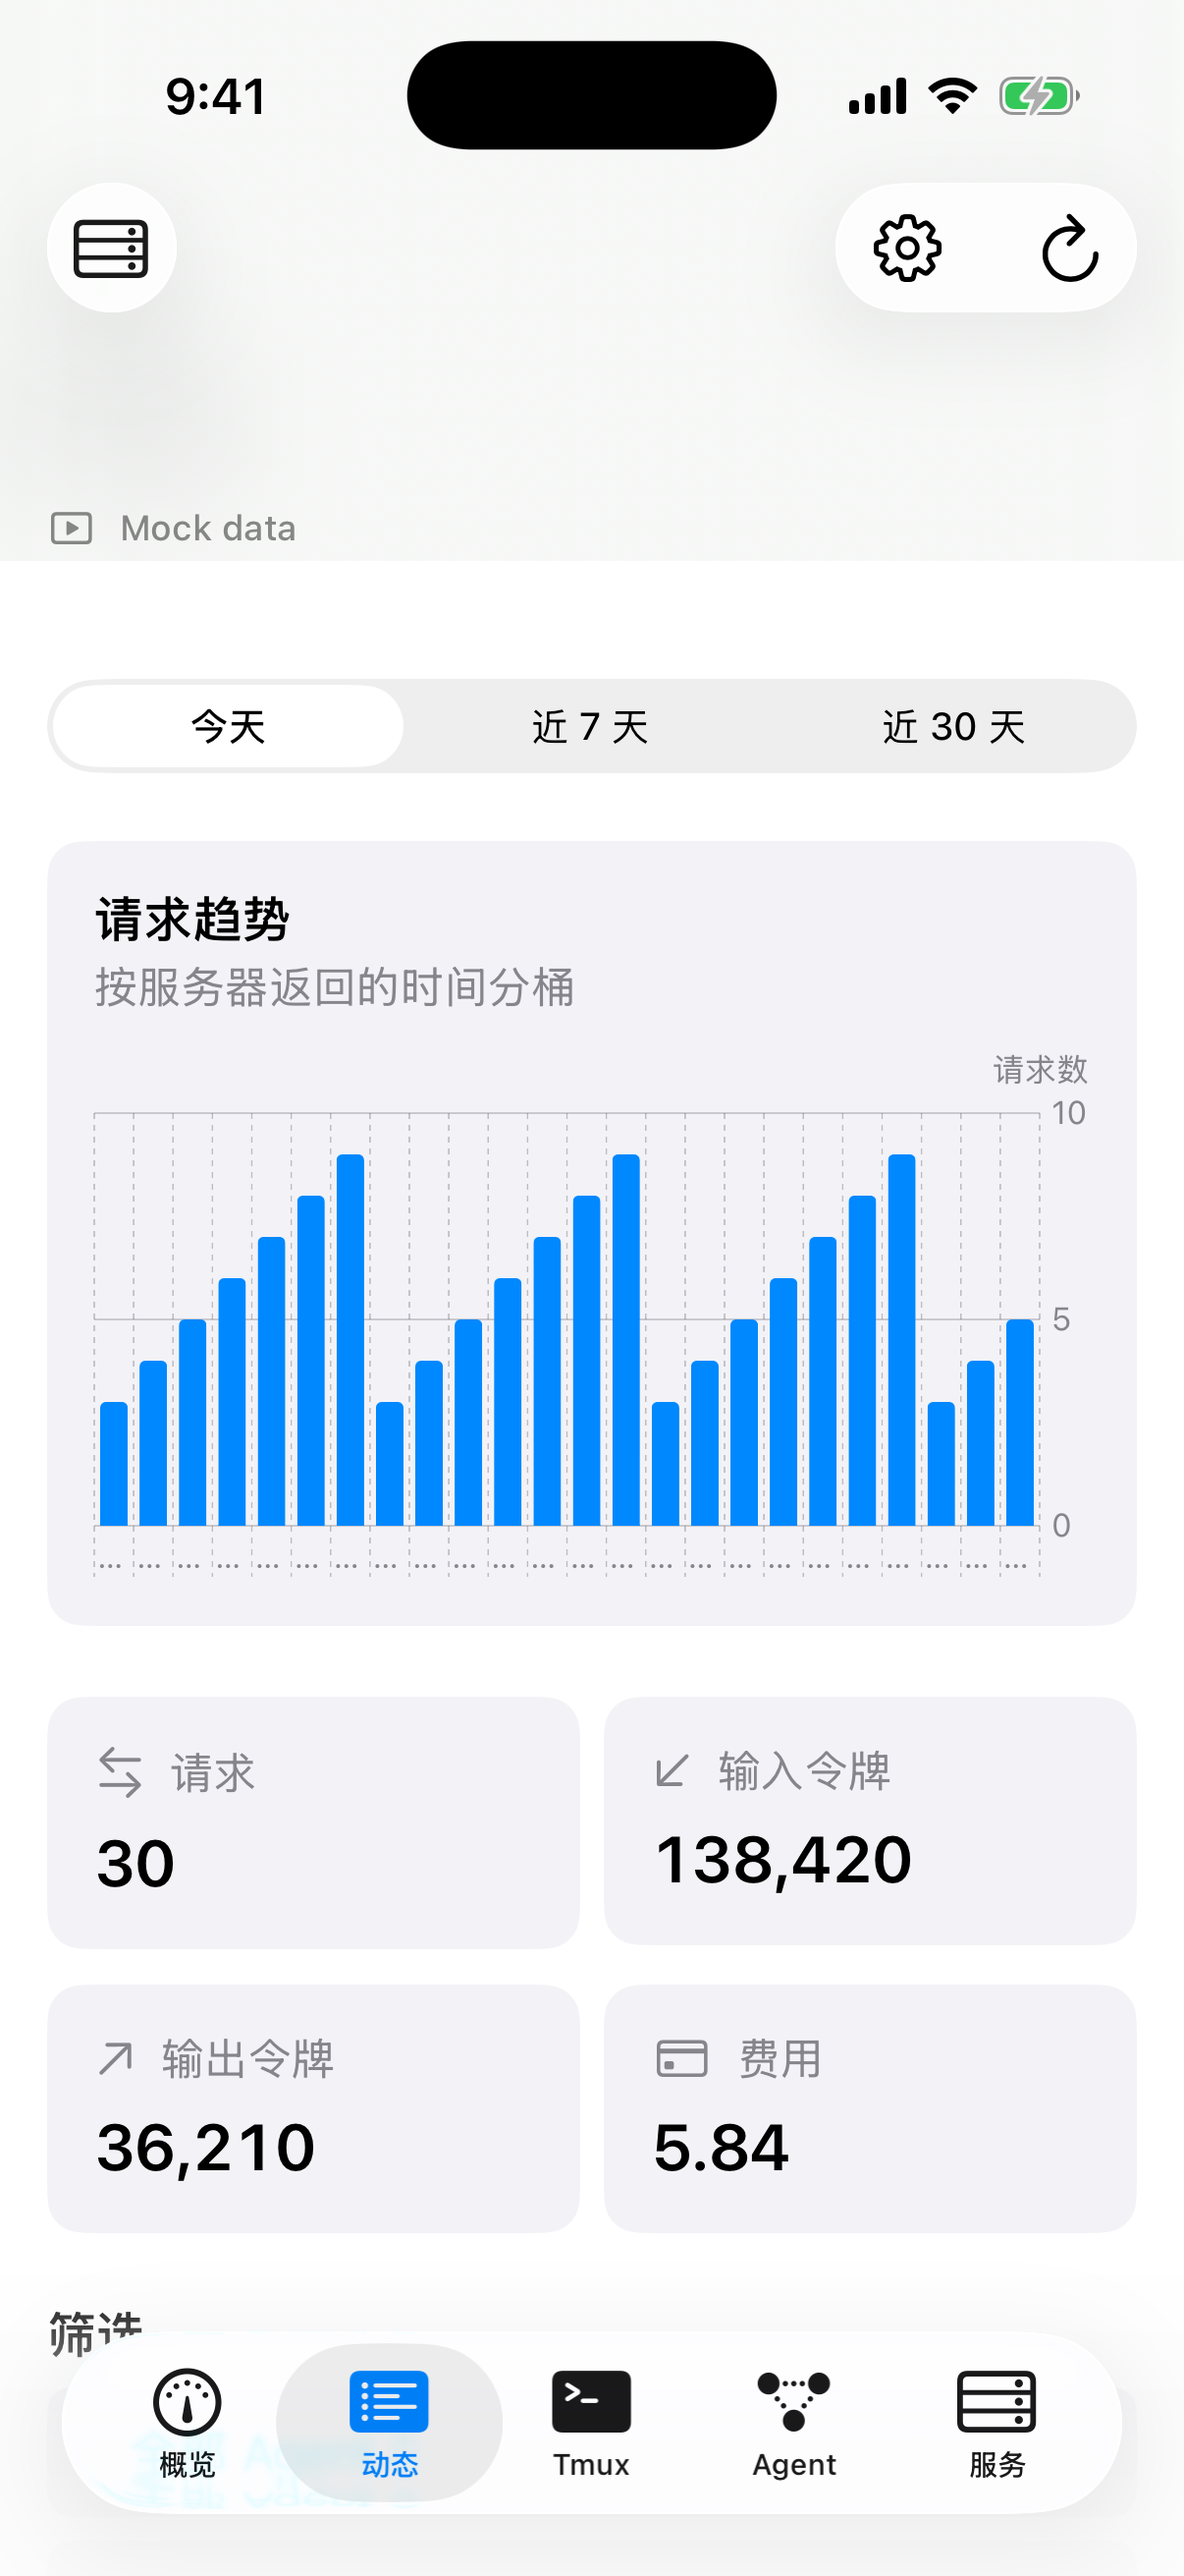
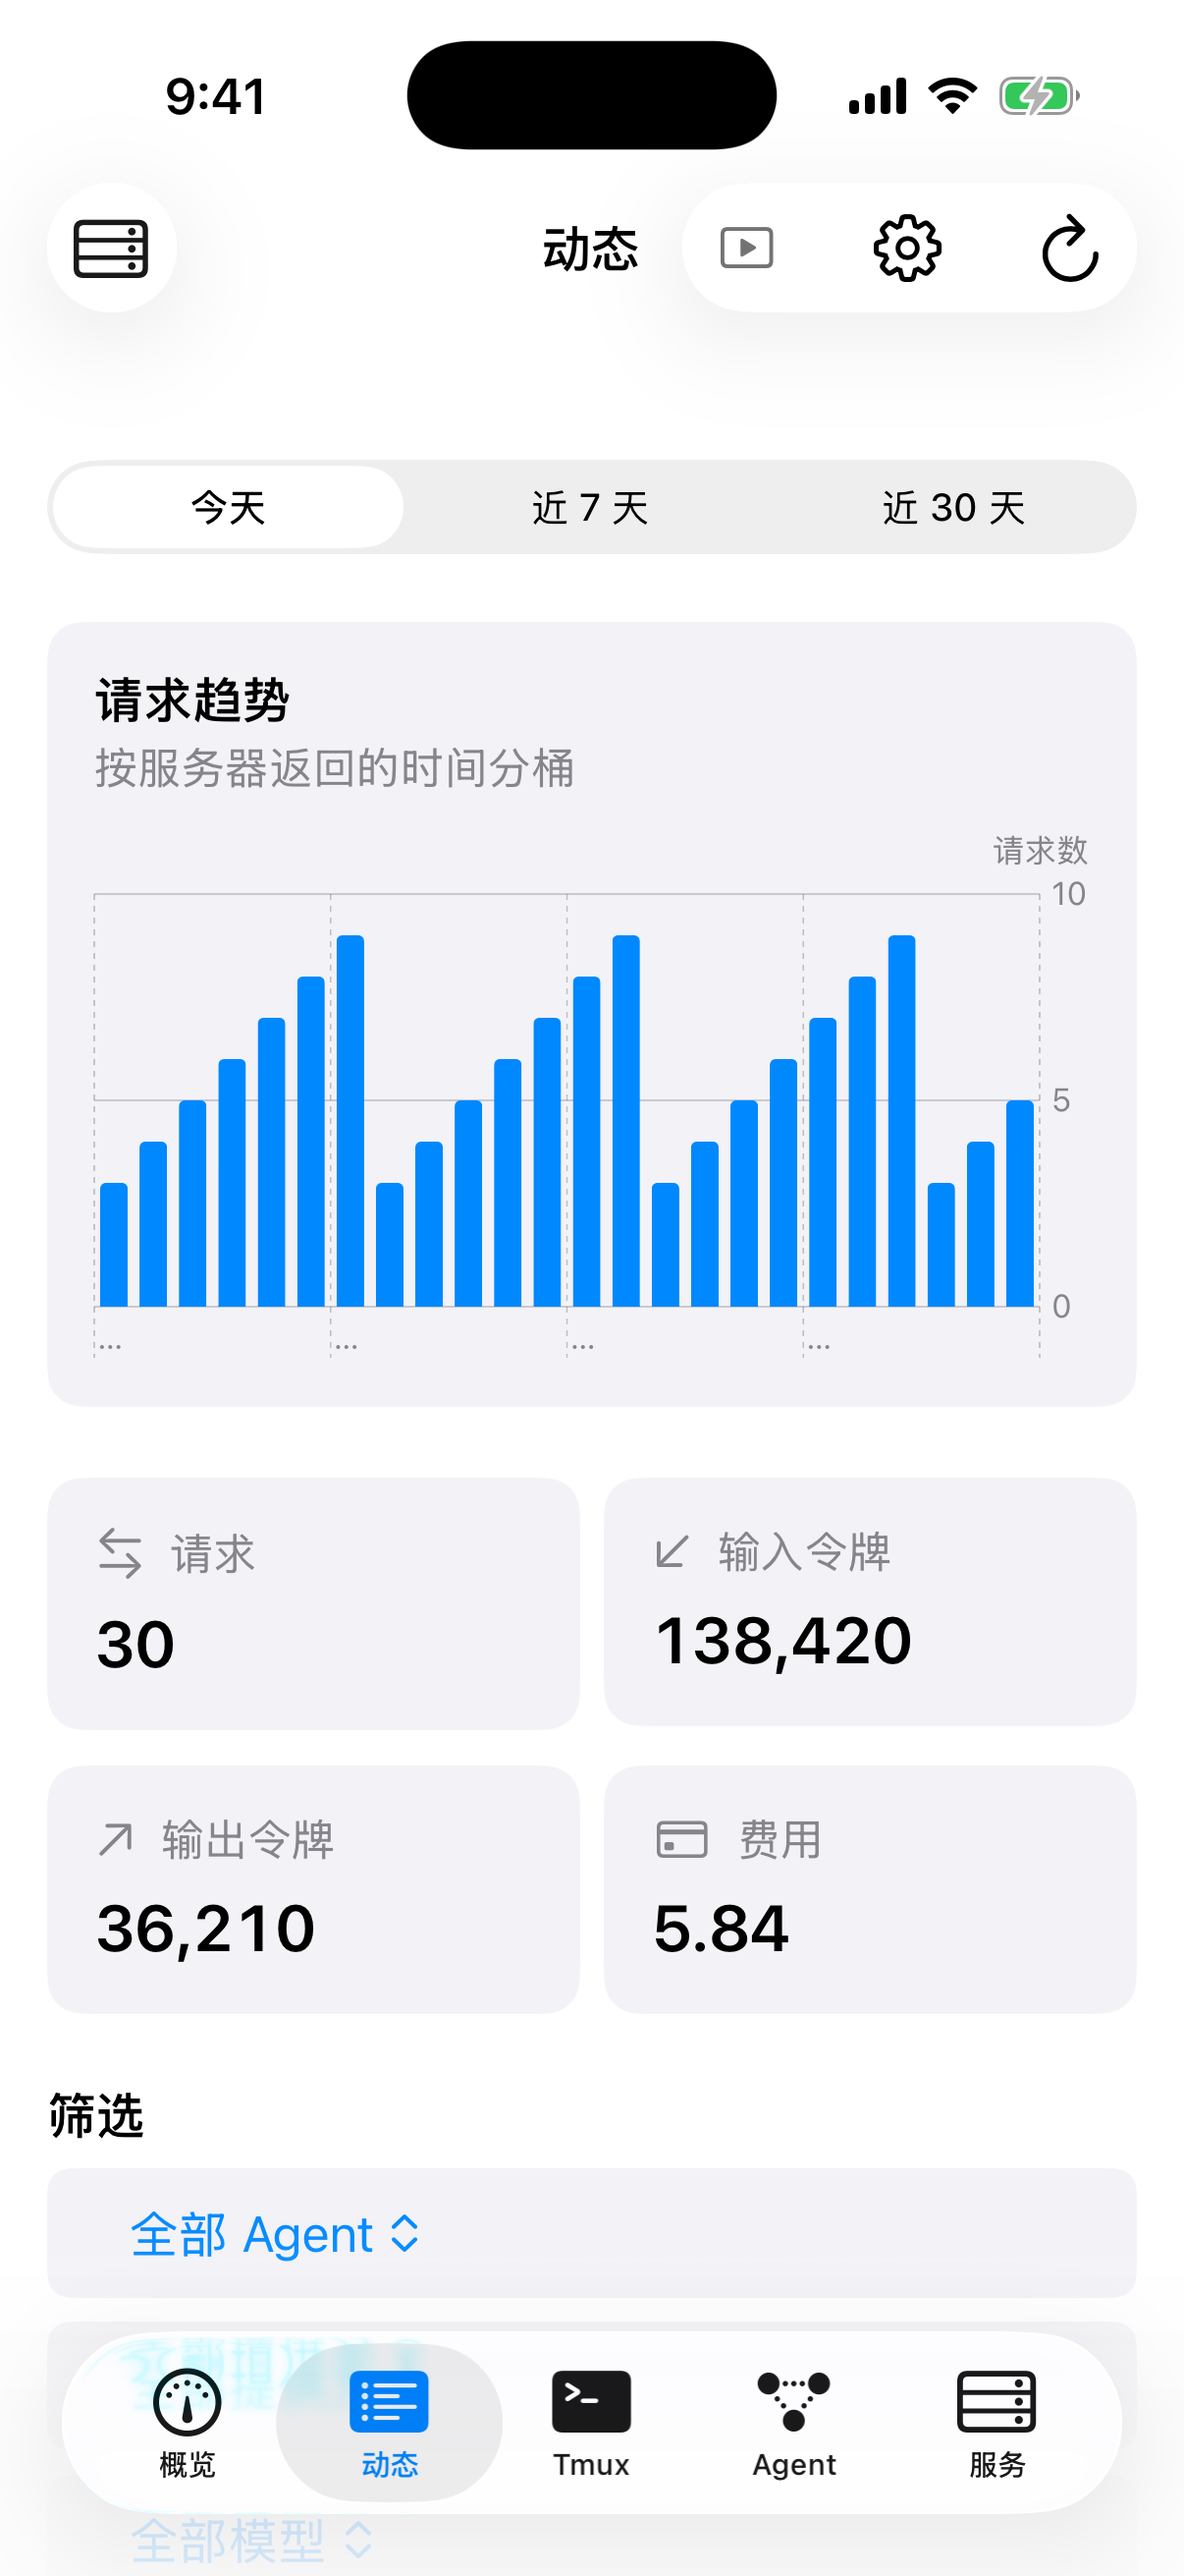
fix: show Mock data badge text in toolbar; date-based trend chart axis; refresh mock screenshots

diff --git a/App/Sources/Views/Activity/ActivityView.swift b/App/Sources/Views/Activity/ActivityView.swift
@@ -85,25 +85,51 @@ struct ActivityView: View {
             if store.series.isEmpty {
                 Text("暂无趋势数据").font(.subheadline).foregroundStyle(.secondary)
             } else {
-                Chart(Array(store.series.enumerated()), id: \.offset) { index, point in
-                    BarMark(x: .value("时间", point.label ?? "\(index)"), y: .value("请求数", point.calls?.value ?? 0))
+                let points = Array(store.series.enumerated())
+                let hasDates = points.allSatisfy { $0.element.time?.date != nil }
+                Chart(points, id: \.offset) { index, point in
+                    let value = """
+                    \(point.calls?.value ?? 0) 次请求，\
+                    \(point.tokens?.value ?? 0) 个令牌，\
+                    费用 \(point.cost?.value ?? 0, format: .number.precision(.fractionLength(4)))
+                    """
+                    if hasDates, let date = point.time?.date {
+                        BarMark(
+                            x: .value("时间", date, unit: store.bucket == "hour" ? .hour : .day),
+                            y: .value("请求数", point.calls?.value ?? 0)
+                        )
                         .foregroundStyle(.tint)
                         .accessibilityLabel(point.label ?? "时间段 \(index + 1)")
-                        .accessibilityValue(
-                            """
-                            \(point.calls?.value ?? 0) 次请求，\
-                            \(point.tokens?.value ?? 0) 个令牌，\
-                            费用 \(point.cost?.value ?? 0, format: .number.precision(.fractionLength(4)))
-                            """
+                        .accessibilityValue(value)
+                    } else {
+                        BarMark(
+                            x: .value("时间", point.label ?? "\(index)"),
+                            y: .value("请求数", point.calls?.value ?? 0)
                         )
+                        .foregroundStyle(.tint)
+                        .accessibilityLabel(point.label ?? "时间段 \(index + 1)")
+                        .accessibilityValue(value)
+                    }
                 }
                 .chartXAxis {
-                    AxisMarks(values: store.series.enumerated().compactMap { index, point in
-                        index.isMultiple(of: max(1, (store.series.count + 3) / 4)) ? point.label : nil
-                    }) { _ in
-                        AxisGridLine()
-                        AxisTick()
-                        AxisValueLabel()
+                    if hasDates {
+                        AxisMarks(values: .automatic(desiredCount: 4)) { _ in
+                            AxisGridLine()
+                            AxisTick()
+                            if store.bucket == "hour" {
+                                AxisValueLabel(format: .dateTime.hour())
+                            } else {
+                                AxisValueLabel(format: .dateTime.month().day())
+                            }
+                        }
+                    } else {
+                        AxisMarks(values: store.series.enumerated().compactMap { index, point in
+                            index.isMultiple(of: max(1, (store.series.count + 3) / 4)) ? point.label : nil
+                        }) { _ in
+                            AxisGridLine()
+                            AxisTick()
+                            AxisValueLabel()
+                        }
                     }
                 }
                 .chartYAxisLabel("请求数")

diff --git a/App/Sources/Stores/ActivityStore.swift b/App/Sources/Stores/ActivityStore.swift
@@ -21,6 +21,7 @@ enum ActivityPeriod: String, CaseIterable, Identifiable {
 final class ActivityStore {
     private(set) var rows: [LedgerRow] = []
     private(set) var series: [SeriesPoint] = []
+    private(set) var bucket: String?
     private(set) var total = 0
     private(set) var offset = 0
     private(set) var calls = 0
@@ -51,6 +52,7 @@ final class ActivityStore {
         defer { if generation == token { isLoading = false } }
         rows = []
         series = []
+        bucket = nil
         total = 0
         offset = 0
         await loadPage(appState: appState, replace: true)
@@ -81,6 +83,7 @@ final class ActivityStore {
             if replace {
                 rows = incoming
                 series = page.series?.elements ?? []
+                bucket = page.bucket
                 agentOptions = page.agents?.elements ?? []
                 providerOptions = page.providers?.elements ?? []
                 modelOptions = Array(Set(incoming.compactMap(\.model).filter { !$0.isEmpty })).sorted()

diff --git a/App/Sources/Support/ProfileToolbar.swift b/App/Sources/Support/ProfileToolbar.swift
@@ -32,8 +32,8 @@ struct ProfileToolbar: ViewModifier {
             }
             ToolbarItem(placement: .topBarTrailing) {
                 VStack(alignment: .trailing, spacing: DS.Spacing.xSmall) {
-                    if appState.isMockMode { MockBadge() }
-                    if appState.currentProfile?.isInsecure == true { InsecureBadge() }
+                    if appState.isMockMode { MockBadge().labelStyle(.titleAndIcon) }
+                    if appState.currentProfile?.isInsecure == true { InsecureBadge().labelStyle(.titleAndIcon) }
                 }
             }
             ToolbarItem(placement: .topBarTrailing) {
